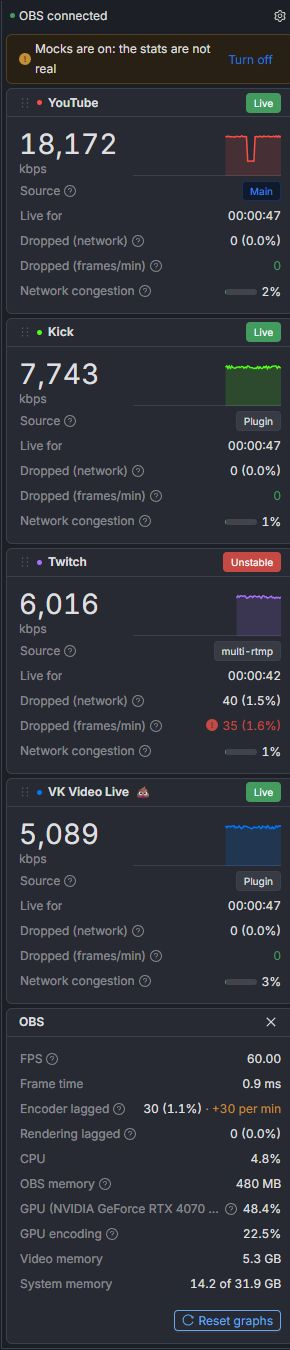
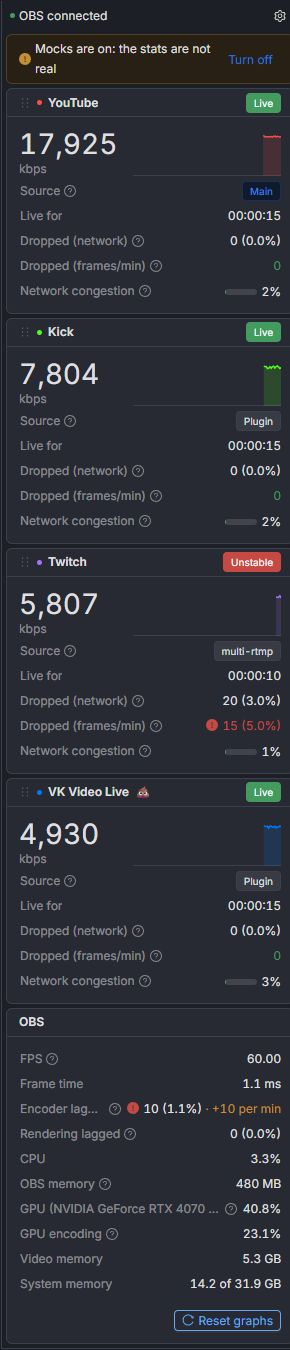
Fade the OBS close button and offer a one-time restore action

diff --git a/src/pages/Stats/containers/general-card/GeneralCard.tsx b/src/pages/Stats/containers/general-card/GeneralCard.tsx
@@ -6,22 +6,30 @@ import {
     NotificationArgsProps,
 } from 'antd';
 import {useTranslation} from 'react-i18next';
+import {useSelector} from 'react-redux';
 
 import {commonActions} from '__actions';
 import EnhancedButton from '__components/EnhancedButton';
 import EnhancedText from '__components/EnhancedText';
+import {settingsHasSeenGeneralCardNoticeSelector} from '__selectors/settingsSelectors';
 import {journalService} from '__services/journal/journalService';
 import {obsConnectionService} from '__services/obsConnectionService';
 import {JournalLevelEnum} from '__types/journal';
 
 import StatList from '../../components/stat-list';
 
-import {HIDDEN_NOTICE_DURATION_SEC, STAT_COLUMNS} from './consts';
+import {
+    HIDDEN_NOTICE_DURATION_SEC,
+    HIDDEN_NOTICE_KEY,
+    STAT_COLUMNS,
+} from './consts';
 import {useItems} from './hooks/useItems';
 
 import style from './style.module.scss';
 
 const GeneralCard = () => {
+    const hasSeenGeneralCardNotice = useSelector(settingsHasSeenGeneralCardNoticeSelector);
+
     const {t} = useTranslation();
 
     const {notification} = App.useApp();
@@ -34,12 +42,32 @@ const GeneralCard = () => {
         obsConnectionService.resetStats();
     };
 
+    const onRestore = () => {
+        commonActions.settings.setIsShowGeneralCard(true);
+        notification.destroy(HIDDEN_NOTICE_KEY);
+    };
+
     const onHide = () => {
         commonActions.settings.setIsShowGeneralCard(false);
 
+        if (hasSeenGeneralCardNotice) {
+            return;
+        }
+
+        commonActions.settings.setHasSeenGeneralCardNotice(true);
+
         const hiddenNotice: NotificationArgsProps = {
+            key: HIDDEN_NOTICE_KEY,
             title: t('general.hiddenTitle'),
             description: t('general.hiddenText'),
+            actions: (
+                <EnhancedButton
+                    buttonProps={{type: 'link', onClick: onRestore}}
+                    withSpinner={false}
+                >
+                    {t('general.restore')}
+                </EnhancedButton>
+            ),
             placement: 'bottomRight',
             duration: HIDDEN_NOTICE_DURATION_SEC,
         };
@@ -50,6 +78,7 @@ const GeneralCard = () => {
     return (
         <Card
             size="small"
+            className={style.card}
             title={(
                 <EnhancedText>
                     {t('general.title')}
@@ -61,6 +90,7 @@ const GeneralCard = () => {
                         type: 'text',
                         size: 'small',
                         icon: <CloseOutlined/>,
+                        className: style.closeButton,
                         'aria-label': t('general.hide'),
                         onClick: onHide,
                     }}

diff --git a/src/utils/settings/tests/migrateSettings.test.ts b/src/utils/settings/tests/migrateSettings.test.ts
@@ -51,6 +51,18 @@ describe('migrateSettings', () => {
         expect(migrateSettings(stored)).toEqual({settings: stored, isDiscarded: false, isChanged: false});
     });
 
+    it.each([false, true])('preserves the one-time OBS card notice choice: %s', hasSeenGeneralCardNotice => {
+        const stored = {...DEFAULT_SETTINGS, hasSeenGeneralCardNotice};
+
+        expect(migrateSettings(stored).settings.hasSeenGeneralCardNotice).toBe(hasSeenGeneralCardNotice);
+    });
+
+    it('lets existing installations see the OBS card notice once', () => {
+        const {hasSeenGeneralCardNotice: _hasSeenGeneralCardNotice, ...stored} = DEFAULT_SETTINGS;
+
+        expect(migrateSettings(stored).settings.hasSeenGeneralCardNotice).toBe(false);
+    });
+
     it('runs every migration in order, whatever order they are listed in', () => {
         const result = migrateSettings({settingsVersion: 1, obsPort: 4480, showCard: false}, MIGRATIONS, 3);
 

diff --git a/src/selectors/settingsSelectors.ts b/src/selectors/settingsSelectors.ts
@@ -6,6 +6,8 @@ export const settingsPortSelector = (state: BaseStore) => state.settings.port;
 
 export const settingsIsShowGeneralCardSelector = (state: BaseStore) => state.settings.isShowGeneralCard;
 
+export const settingsHasSeenGeneralCardNoticeSelector = (state: BaseStore) => state.settings.hasSeenGeneralCardNotice;
+
 export const settingsIsMockEnabledSelector = (state: BaseStore) => state.settings.isMockEnabled;
 
 export const settingsCardOrderSelector = (state: BaseStore) => state.settings.cardOrder;

diff --git a/src/i18n/locales/frog.ts b/src/i18n/locales/frog.ts
@@ -77,6 +77,7 @@ export const frog: DeepPartial<TranslationDto> = {
         recentLag: ' · +{{count}} мух за мин',
         reset: 'Взбаламутить графики',
         hide: 'Спрятать в тину',
+        restore: 'Вернуть',
         hiddenTitle: 'Болото OBS ушло под воду',
         hiddenText: 'Вынырнет обратно в $t(pageTitles.settings) → $t(settings.displayTitle) → «$t(settings.generalCard)».',
         hints: {

diff --git a/src/i18n/locales/ru.ts b/src/i18n/locales/ru.ts
@@ -131,6 +131,7 @@ export const ru: TranslationDto = {
         recentLag: ' · +{{count}} за мин',
         reset: 'Сбросить графики',
         hide: 'Скрыть карточку',
+        restore: 'Вернуть',
         hiddenTitle: 'Карточка OBS скрыта',
         hiddenText: 'Вернуть её можно в $t(pageTitles.settings) → $t(settings.displayTitle) → «$t(settings.generalCard)».',
         hints: {

diff --git a/src/reducers/settingsReducer.ts b/src/reducers/settingsReducer.ts
@@ -18,6 +18,9 @@ const slice = createSlice({
         setIsShowGeneralCard: (state, {payload}: PayloadAction<boolean>) => {
             state.isShowGeneralCard = payload;
         },
+        setHasSeenGeneralCardNotice: (state, {payload}: PayloadAction<boolean>) => {
+            state.hasSeenGeneralCardNotice = payload;
+        },
         setLanguage: (state, {payload}: PayloadAction<LanguageEnum>) => {
             state.language = payload;
         },

diff --git a/src/i18n/locales/de.ts b/src/i18n/locales/de.ts
@@ -131,6 +131,7 @@ export const de: TranslationDto = {
         recentLag: ' · +{{count}} pro Min.',
         reset: 'Diagramme zurücksetzen',
         hide: 'Karte ausblenden',
+        restore: 'Wiederherstellen',
         hiddenTitle: 'OBS-Karte ausgeblendet',
         hiddenText: 'Zurückholen kannst du sie unter $t(pageTitles.settings) → $t(settings.displayTitle) → „$t(settings.generalCard)“.',
         hints: {

diff --git a/src/pages/Stats/containers/general-card/style.module.scss b/src/pages/Stats/containers/general-card/style.module.scss
@@ -1,3 +1,21 @@
+.card .closeButton {
+    opacity: 0;
+    pointer-events: none;
+    transition: opacity var(--ant-motion-duration-mid) ease-in-out;
+}
+
+.card:hover .closeButton,
+.card:focus-within .closeButton {
+    opacity: 1;
+    pointer-events: auto;
+}
+
+@media (prefers-reduced-motion: reduce) {
+    .card .closeButton {
+        transition: none;
+    }
+}
+
 .actions {
     margin-top: var(--ant-margin-md);
 }

diff --git a/src/i18n/locales/ptBr.ts b/src/i18n/locales/ptBr.ts
@@ -131,6 +131,7 @@ export const ptBr: TranslationDto = {
         recentLag: ' · +{{count}} por min',
         reset: 'Zerar gráficos',
         hide: 'Ocultar cartão',
+        restore: 'Restaurar',
         hiddenTitle: 'Cartão do OBS oculto',
         hiddenText: 'Você pode trazê-lo de volta em $t(pageTitles.settings) → $t(settings.displayTitle) → “$t(settings.generalCard)”.',
         hints: {

diff --git a/src/i18n/locales/es.ts b/src/i18n/locales/es.ts
@@ -131,6 +131,7 @@ export const es: TranslationDto = {
         recentLag: ' · +{{count}} por min',
         reset: 'Reiniciar gráficos',
         hide: 'Ocultar tarjeta',
+        restore: 'Restaurar',
         hiddenTitle: 'Tarjeta de OBS oculta',
         hiddenText: 'Puedes recuperarla en $t(pageTitles.settings) → $t(settings.displayTitle) → «$t(settings.generalCard)».',
         hints: {

diff --git a/src/i18n/locales/en.ts b/src/i18n/locales/en.ts
@@ -129,6 +129,7 @@ export const en = {
         recentLag: ' · +{{count}} per min',
         reset: 'Reset graphs',
         hide: 'Hide card',
+        restore: 'Restore',
         hiddenTitle: 'OBS card hidden',
         hiddenText: 'Bring it back in $t(pageTitles.settings) → $t(settings.displayTitle) → “$t(settings.generalCard)”.',
         hints: {

diff --git a/src/utils/consts.ts b/src/utils/consts.ts
@@ -46,6 +46,7 @@ export const DEFAULT_SETTINGS: SettingsDto = {
     settingsVersion: SETTINGS_VERSION,
     port: DEFAULT_OBS_WEBSOCKET_PORT,
     isShowGeneralCard: true,
+    hasSeenGeneralCardNotice: false,
     language: null,
     isAutoUpdateEnabled: true,
     isJournalEnabled: true,
